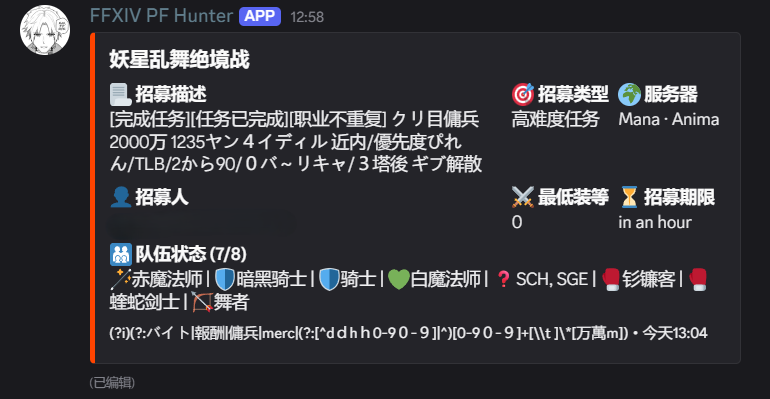
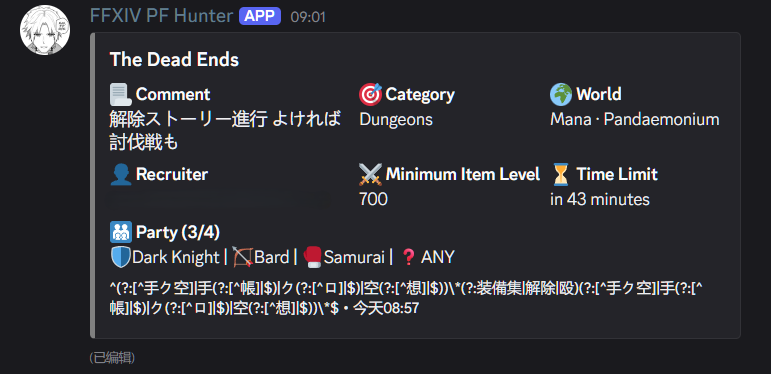
docs: update preview image

diff --git a/docs/README-chs.md b/docs/README-chs.md
@@ -3,7 +3,7 @@
 [English](../README.md) | 简体中文
 
 <div align="center">
-  <img src="./preview.png" alt="Discord 招募推送预览" height="320" />
+  <img src="./preview-chs.png" alt="Discord 招募推送预览" height="320" />
 </div>
 
 面向《最终幻想 XIV》（FF14）国际服玩家的 Discord 招募订阅机器人。定时读取 [xivpf.com](https://xivpf.com/listings) 的招募信息，按关键词、数据中心和招募类别筛选，推送到指定频道。
